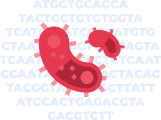
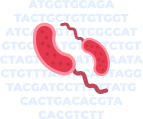
Change pabr image

diff --git a/src/modules/shared/components/icons/PaBrIcon.vue b/src/modules/shared/components/icons/PaBrIcon.vue
@@ -1,41 +1,33 @@
 <template>
-  <svg width="24" height="20" viewBox="0 0 24 20" fill="none" xmlns="http://www.w3.org/2000/svg">
-    <path d="M17.0058 14.0427C16.9678 14.9384 16.5667 15.7323 15.9593 16.2903C15.3519 16.8483 14.527 17.1809 13.6312 17.143C10.3506 17.0041 7.4392 15.5511 5.38252 13.3127C3.32599 11.0741 2.12437 8.05026 2.26329 4.76967C2.30123 3.87389 2.70238 3.08007 3.30977 2.52203C3.91716 1.964 4.74206 1.63139 5.63784 1.66932C7.42925 1.74519 8.81405 3.25245 8.73818 5.04387C8.67512 6.53304 9.22235 7.90757 10.152 8.93075C11.0929 9.94357 12.4163 10.605 13.9054 10.6681C14.8012 10.706 15.595 11.1072 16.1531 11.7146C16.7111 12.322 17.0437 13.1469 17.0058 14.0427Z" fill="#E63950"/>
-    <path d="M16.1549 11.7147C16.7129 12.3221 17.0455 13.147 17.0076 14.0427C16.9697 14.9385 16.5685 15.7323 15.9611 16.2904C15.3537 16.8484 14.5288 17.181 13.6331 17.1431C10.3525 17.0042 7.44103 15.5512 5.38435 13.3128L10.1538 8.93083C11.0948 9.94365 12.4181 10.6051 13.9073 10.6682C14.803 10.7061 15.5969 11.1073 16.1549 11.7147Z" fill="#AE2538"/>
-    <path d="M6.1301 13.959L6.84366 14.7543L5.39703 16.1082L4.68347 15.3129L6.1301 13.959Z" fill="#FE909E"/>
-    <path d="M9.19105 18.463L8.22719 18.0211L9.13412 16.0339L10.098 16.4757L9.19105 18.463Z" fill="#FE909E"/>
-    <path d="M13.1055 17.1204L14.1669 17.1563L14.0807 18.7848L13.0192 18.7488L13.1055 17.1204Z" fill="#FE909E"/>
-    <path d="M16.8755 15.3365L18.3268 16.9541L17.5315 17.6983L16.0802 16.0809L16.8755 15.3365Z" fill="#FE909E"/>
-    <path d="M17.0352 13.5032L18.6416 13.5575L18.5835 14.6509L16.9771 14.5966L17.0352 13.5032Z" fill="#FE909E"/>
-    <path d="M17.9449 10.3742L18.4894 11.3012L16.6422 12.4535L16.0977 11.5265L17.9449 10.3742Z" fill="#FE909E"/>
-    <path d="M0.597656 4.15869L2.21638 4.22724L2.17068 5.30639L0.551957 5.23784L0.597656 4.15869Z" fill="#FE909E"/>
-    <path d="M0.738235 9.00143L0.440117 7.96375L2.49637 7.37346L2.79448 8.41129L0.738235 9.00143Z" fill="#FE909E"/>
-    <path d="M3.54462 10.7198L4.10519 11.6431L2.22375 12.7854L1.66319 11.862L3.54462 10.7198Z" fill="#FE909E"/>
-    <path d="M2.84698 0.0877308L4.3331 1.70514L3.5378 2.43583L2.05167 0.818412L2.84698 0.0877308Z" fill="#FE909E"/>
-    <path d="M8.48752 0.408989L9.36006 1.0456L8.08339 2.79546L7.21085 2.15884L8.48752 0.408989Z" fill="#FE909E"/>
-    <path d="M9.01672 6.17436L8.79968 5.11675L10.9547 4.6738L11.1717 5.73142L9.01672 6.17436Z" fill="#FE909E"/>
-    <path d="M11.3902 9.9923L10.5544 9.30868L11.9851 7.56028L12.8208 8.24375L11.3902 9.9923Z" fill="#FE909E"/>
-    <path d="M15.0625 10.8856L14.0134 10.629L14.5516 8.42726L15.6007 8.68396L15.0625 10.8856Z" fill="#FE909E"/>
-    <path d="M5.4328 6.52548C4.54025 6.48768 3.84483 5.73075 3.88262 4.83821C3.92042 3.94566 4.67735 3.25023 5.56989 3.28803C6.46244 3.32583 7.15787 4.08276 7.12007 4.9753C7.08227 5.86785 6.32534 6.56327 5.4328 6.52548Z" fill="#EC5569"/>
-    <path d="M13.7023 15.5247C12.8098 15.4869 12.1144 14.73 12.1522 13.8375C12.19 12.9449 12.9469 12.2495 13.8394 12.2873C14.732 12.3251 15.4274 13.082 15.3896 13.9746C15.3518 14.8671 14.5949 15.5625 13.7023 15.5247Z" fill="#EC5569"/>
-    <path d="M5.39776 7.38168L6.12844 8.17698L5.33314 8.90766L4.60245 8.11236L5.39776 7.38168Z" fill="#EC5569"/>
-    <path d="M8.1543 11.5059L7.35563 12.2397L6.62185 11.441L7.42052 10.7073L8.1543 11.5059Z" fill="#EC5569"/>
-    <path d="M10.5657 13.0052L11.2964 13.8005L10.5011 14.5312L9.77042 13.7359L10.5657 13.0052Z" fill="#EC5569"/>
-    <path d="M10.1165 10.8241L10.8472 11.6194L10.0519 12.35L9.3212 11.5547L10.1165 10.8241Z" fill="#EC5569"/>
-    <path d="M7.53448 8.01205L8.26516 8.80735L7.46985 9.53803L6.73917 8.74273L7.53448 8.01205Z" fill="#EC5569"/>
-    <path d="M13.9294 10.1287C12.5913 10.072 11.4054 9.48127 10.5581 8.55885C9.71058 7.63655 9.22219 6.405 9.27886 5.06689C9.36705 2.98419 7.74448 1.21812 5.66178 1.12992C3.57908 1.04172 1.81302 2.66429 1.72482 4.74699C1.57995 8.16781 2.84087 11.324 4.99007 13.6744C7.1504 16.0146 10.1887 17.5379 13.6095 17.6827C15.6922 17.7709 17.4583 16.1484 17.5464 14.0657C17.6346 11.983 16.0121 10.2169 13.9294 10.1287ZM13.6552 16.6036C10.5257 16.4711 7.75215 15.078 5.78874 12.9406C3.82504 10.8036 2.67144 7.92222 2.80397 4.79269C2.86703 3.30352 4.12692 2.146 5.61609 2.20907C7.10525 2.27213 8.26277 3.53202 8.19971 5.02119C8.13024 6.66155 8.73677 8.16823 9.7594 9.29262C10.7933 10.4066 12.2433 11.1384 13.8837 11.2078C15.3728 11.2709 16.5304 12.5308 16.4673 14.02C16.4042 15.5091 15.1443 16.6667 13.6552 16.6036Z" fill="#E63950"/>
-    <path d="M17.547 14.0656C17.4588 16.1483 15.6927 17.7708 13.61 17.6826C10.1892 17.5378 7.15092 16.0145 4.99059 13.6743L5.78926 12.9405C7.75266 15.0779 10.5262 16.4709 13.6557 16.6035C15.1449 16.6665 16.4048 15.509 16.4678 14.0199C16.5309 12.5307 15.3734 11.2708 13.8842 11.2077C12.2438 11.1383 10.7938 10.4065 9.75991 9.29251L10.5586 8.55873C11.4059 9.48116 12.5918 10.0719 13.9299 10.1286C16.0126 10.2168 17.6352 11.9829 17.547 14.0656Z" fill="#E63950"/>
-    <path d="M6.99294 11.8461L7.79161 11.1123L8.15332 11.506L7.35465 12.2398L6.99294 11.8461Z" fill="#EC5569"/>
-    <path d="M16.9425 7.6811L16.4344 7.11277L17.577 6.08064L18.0851 6.64897L16.9425 7.6811Z" fill="#EC5569"/>
-    <path d="M20.0291 3.39595L19.2919 3.20159L19.6768 1.71075L20.414 1.90511L20.0291 3.39595Z" fill="#EC5569"/>
-    <path d="M21.6189 6.47263L21.7074 5.7154L23.2377 5.88645L23.1491 6.64368L21.6189 6.47263Z" fill="#EC5569"/>
-    <path d="M19.9693 8.31815L20.6642 8.00459L21.3046 9.40485L20.6097 9.71841L19.9693 8.31815Z" fill="#EC5569"/>
-    <path d="M13.3794 5.46892L13.2177 4.72388L14.7208 4.3897L14.8824 5.13475L13.3794 5.46892Z" fill="#EC5569"/>
-    <path d="M16.4854 2.63433L15.7956 2.95896L15.1329 1.56913L15.8227 1.2445L16.4854 2.63433Z" fill="#EC5569"/>
-    <path d="M21.624 6.4933C21.7905 7.37429 21.2138 8.21966 20.3329 8.38614C19.4519 8.55262 18.6065 7.97597 18.44 7.09498C18.3558 6.6493 18.1012 6.29063 17.7605 6.05818C17.4197 5.82572 16.9929 5.7196 16.5472 5.80382C15.6662 5.97029 14.8208 5.39364 14.6544 4.51265C14.4879 3.63166 15.0645 2.7863 15.9455 2.61982C17.2615 2.37113 18.5612 2.67515 19.5852 3.38307C20.618 4.07817 21.3753 5.17728 21.624 6.4933Z" fill="#E63950"/>
-    <path d="M21.6227 6.49342C21.7892 7.37441 21.2125 8.21978 20.3315 8.38625C19.4506 8.55273 18.6052 7.97608 18.4387 7.09509C18.3545 6.64941 18.0999 6.29075 17.7592 6.05829L19.5839 3.38318C20.6167 4.07828 21.374 5.17739 21.6227 6.49342Z" fill="#AE2538"/>
-    <path d="M19.9059 2.93721C18.7576 2.15403 17.308 1.81236 15.8434 2.08912C14.6759 2.30973 13.9012 3.44543 14.1218 4.6129C14.3424 5.78036 15.4781 6.55506 16.6456 6.33445C16.9429 6.27828 17.2196 6.34692 17.4573 6.49981C17.6864 6.66534 17.8513 6.89797 17.9075 7.19522C18.1281 8.36269 19.2638 9.13738 20.4313 8.91677C21.5987 8.69616 22.3734 7.56046 22.1528 6.39299C21.8761 4.92841 21.033 3.72456 19.9059 2.93721ZM20.2307 7.85544C19.647 7.96575 19.0791 7.5784 18.9688 6.99466C18.8585 6.41093 18.5248 5.92437 18.0599 5.61648C17.6035 5.29594 17.0288 5.16281 16.445 5.27312C15.8613 5.38342 15.2935 4.99607 15.1832 4.41234C15.0728 3.82861 15.4602 3.26076 16.0439 3.15045C17.2114 2.92984 18.363 3.20688 19.2822 3.82453C20.1927 4.455 20.8709 5.42608 21.0915 6.59355C21.2018 7.17728 20.8144 7.74513 20.2307 7.85544Z" fill="#E63950"/>
-    <path d="M22.1537 6.39279C22.3743 7.56026 21.5996 8.69596 20.4321 8.91657C19.2646 9.13718 18.1289 8.36249 17.9083 7.19502C17.8521 6.89777 17.6872 6.66514 17.4582 6.4996L18.0607 5.61628C18.5257 5.92417 18.8593 6.41073 18.9697 6.99446C19.08 7.5782 19.6478 7.96555 20.2315 7.85524C20.8153 7.74493 21.2026 7.17708 21.0923 6.59335C20.8717 5.42588 20.1935 4.4548 19.283 3.82433L19.8856 2.94101L19.9067 2.93701C21.0338 3.72436 21.8769 4.92821 22.1537 6.39279Z" fill="#E63950"/>
+  <svg width="32" height="32" viewBox="0 0 32 32" fill="none" xmlns="http://www.w3.org/2000/svg">
+    <path d="M13.773 18.1824C13.6902 17.8866 13.8547 17.5931 14.1469 17.5154L15.1903 17.2378C16.0563 17.0074 16.9535 17.5292 17.1988 18.406C17.2816 18.7018 17.586 18.9083 17.8782 18.8306C18.2851 18.7223 18.6946 18.7836 19.0369 18.965C19.4401 19.1642 19.7566 19.5339 19.8867 19.9987L20.1823 21.0551C20.2651 21.3509 20.1006 21.6443 19.8084 21.722C19.5162 21.7998 19.2216 21.6285 19.1389 21.3327L18.8433 20.2763C18.7605 19.9806 18.4659 19.8092 18.1738 19.8869C17.3077 20.1173 16.4007 19.5604 16.1554 18.6836C16.0726 18.3878 15.7781 18.2164 15.4859 18.2942L14.4425 18.5718C14.1503 18.6495 13.8557 18.4782 13.773 18.1824Z" fill="#BD4859"/>
+    <path d="M25.494 23.7047C25.5805 23.9994 25.4198 24.295 25.1287 24.3766L24.089 24.6679C23.2261 24.9097 22.3224 24.3996 22.0659 23.5261C21.9794 23.2314 21.6724 23.0289 21.3812 23.1104C20.9758 23.224 20.5655 23.1681 20.221 22.9912C19.8153 22.7973 19.4941 22.4318 19.3581 21.9686L19.0491 20.9161C18.9625 20.6214 19.1232 20.3258 19.4144 20.2442C19.7055 20.1627 20.0022 20.3301 20.0887 20.6248L20.3978 21.6773C20.4843 21.972 20.781 22.1395 21.0722 22.0579C21.9351 21.8162 22.849 22.3612 23.1056 23.2348C23.1921 23.5295 23.4888 23.697 23.7799 23.6154L24.8196 23.3241C25.1107 23.2426 25.4074 23.41 25.494 23.7047Z" fill="#BD4859"/>
+    <path d="M16.8425 17.5524C16.7162 18.2142 16.3207 18.7502 15.7918 19.0823C15.2628 19.4145 14.5905 19.5488 13.9037 19.3975C11.3885 18.8434 9.30043 17.3615 7.95677 15.4121C6.61324 13.4627 6.0142 11.0458 6.47694 8.62197C6.60329 7.96012 6.99874 7.42409 7.5277 7.09198C8.05666 6.75986 8.72894 6.62549 9.41573 6.77679C10.7892 7.07936 11.6939 8.39199 11.4412 9.71558C11.2312 10.8159 11.5042 11.9146 12.1104 12.8042C12.7263 13.6877 13.6753 14.362 14.817 14.6136C15.5038 14.7649 16.0726 15.1726 16.4372 15.7016C16.8017 16.2305 16.9689 16.8905 16.8425 17.5524Z" fill="#E63950"/>
+    <path d="M8.68264 11.0439L9.16 11.7365L8.46739 12.1714L7.99003 11.4788L8.68264 11.0439Z" fill="#CC2E43"/>
+    <path d="M9.66311 9.54342L10.1405 10.236L9.44786 10.6709L8.9705 9.97829L9.66311 9.54342Z" fill="#CC2E43"/>
+    <path d="M8.61233 8.02828L9.08969 8.72089L8.39708 9.15576L7.91972 8.46315L8.61233 8.02828Z" fill="#CC2E43"/>
+    <path d="M10.2895 14.509L9.59396 14.9457L9.11458 14.2502L9.81012 13.8135L10.2895 14.509Z" fill="#CC2E43"/>
+    <path d="M11.8793 16.8477L11.1838 17.2844L10.7044 16.5888L11.4 16.1521L11.8793 16.8477Z" fill="#CC2E43"/>
+    <path d="M10.2256 11.7837L10.703 12.4763L10.0104 12.9111L9.533 12.2185L10.2256 11.7837Z" fill="#CC2E43"/>
+    <path d="M11.8174 14.122L12.2948 14.8146L11.6022 15.2495L11.1248 14.5569L11.8174 14.122Z" fill="#CC2E43"/>
+    <path d="M13.3057 16.2441L13.783 16.9367L13.0904 17.3716L12.6131 16.679L13.3057 16.2441Z" fill="#CC2E43"/>
+    <path d="M15.2178 16.4565L15.6952 17.1491L15.0026 17.584L14.5252 16.8914L15.2178 16.4565Z" fill="#CC2E43"/>
+    <path d="M14.8928 14.2152C13.8669 13.9892 13.0163 13.3864 12.4627 12.5831C11.909 11.7799 11.6659 10.7957 11.8546 9.80701C12.1484 8.26821 11.0883 6.73019 9.49153 6.37842C7.89473 6.02665 6.35671 6.99233 6.06294 8.53113C5.58042 11.0586 6.21085 13.5821 7.61373 15.6276C9.02631 17.6671 11.2046 19.2187 13.8273 19.7965C15.4241 20.1483 16.9621 19.1826 17.2559 17.6438C17.5497 16.105 16.4896 14.567 14.8928 14.2152ZM13.9795 18.9992C11.5801 18.4706 9.59195 17.0522 8.30927 15.1909C7.02634 13.3298 6.44889 11.0256 6.89032 8.7134C7.10037 7.61312 8.19757 6.92423 9.33931 7.17575C10.4811 7.42727 11.2373 8.52447 11.0272 9.62474C10.7958 10.8367 11.1003 12.042 11.7672 13.0198C12.4439 13.9914 13.4829 14.7355 14.7406 15.0125C15.8823 15.264 16.6386 16.3612 16.4285 17.4615C16.2185 18.5618 15.1213 19.2507 13.9795 18.9992Z" fill="#FE909E"/>
+    <path d="M17.164 17.66C16.8715 19.1898 15.3403 20.1498 13.7505 19.8001C11.1393 19.2257 8.97065 17.6832 7.56429 15.6557L8.25677 15.2216C9.5338 17.072 11.5132 18.482 13.902 19.0074C15.0388 19.2575 16.1311 18.5726 16.3403 17.4788C16.5494 16.385 15.7965 15.2943 14.6598 15.0443C13.4077 14.7688 12.3732 14.0291 11.6995 13.0632L12.3919 12.6291C12.9431 13.4277 13.7899 14.0269 14.8113 14.2516C16.4011 14.6013 17.4565 16.1303 17.164 17.66Z" fill="#FE909E"/>
+    <path d="M21.0204 11.4011C21.0603 11.6134 20.9268 11.8088 20.7168 11.8452L19.967 11.9752C19.3446 12.0831 18.7467 11.6621 18.6284 11.0327C18.5885 10.8203 18.3874 10.6568 18.1774 10.6932C17.885 10.7439 17.6012 10.6757 17.372 10.5275C17.1011 10.363 16.9016 10.0844 16.8389 9.75074L16.6963 8.99243C16.6564 8.78008 16.7899 8.58469 16.9999 8.54829C17.2099 8.5119 17.4062 8.65011 17.4461 8.86246L17.5887 9.62077C17.6286 9.83307 17.8249 9.97133 18.0349 9.93493C18.6572 9.82705 19.2599 10.2733 19.3782 10.9027C19.4181 11.115 19.6144 11.2533 19.8244 11.2169L20.5742 11.0869C20.7842 11.0505 20.9805 11.1887 21.0204 11.4011Z" fill="#BD4859"/>
+    <path d="M13.136 6.80616C13.0934 6.59438 13.2245 6.39719 13.4339 6.35803L14.182 6.2182C14.8029 6.10214 15.406 6.51529 15.5324 7.14309C15.575 7.35492 15.7781 7.51576 15.9876 7.4766C16.2794 7.42207 16.564 7.48662 16.795 7.63178C17.068 7.79269 17.271 8.06864 17.338 8.4015L17.4903 9.15792C17.5329 9.36974 17.4019 9.56689 17.1924 9.60605C16.9829 9.6452 16.7849 9.50957 16.7422 9.29775L16.59 8.54133C16.5474 8.32955 16.3493 8.19387 16.1399 8.23303C15.519 8.34909 14.9107 7.91078 14.7844 7.28292C14.7417 7.07115 14.5437 6.93547 14.3342 6.97463L13.5862 7.11446C13.3767 7.15361 13.1787 7.01798 13.136 6.80616Z" fill="#BD4859"/>
+    <path d="M18.8114 11.6617C18.9409 11.2067 19.252 10.8564 19.6446 10.657C20.0372 10.4577 20.5185 10.4055 20.9926 10.554C22.7288 11.0979 24.1076 12.2641 24.9338 13.7109C25.76 15.1578 26.0336 16.8853 25.5596 18.5516C25.4302 19.0066 25.119 19.3569 24.7265 19.5563C24.3339 19.7556 23.8525 19.8078 23.3784 19.6593C22.4304 19.3623 21.874 18.3881 22.1329 17.4781C22.3481 16.7217 22.2232 15.9364 21.8511 15.2765C21.4717 14.6204 20.8451 14.0898 20.057 13.8429C19.5829 13.6943 19.2076 13.3738 18.9834 12.9812C18.7592 12.5886 18.682 12.1167 18.8114 11.6617Z" fill="#E63950"/>
+    <path d="M24.147 16.7226L23.8534 16.2086L24.3675 15.9475L24.661 16.4616L24.147 16.7226Z" fill="#CC2E43"/>
+    <path d="M23.3657 17.7148L23.0722 17.2008L23.5862 16.9397L23.8798 17.4538L23.3657 17.7148Z" fill="#CC2E43"/>
+    <path d="M24.0103 18.8423L23.7167 18.3282L24.2308 18.0671L24.5243 18.5812L24.0103 18.8423Z" fill="#CC2E43"/>
+    <path d="M23.2333 14.1941L23.7495 13.932L24.0443 14.4482L23.5281 14.7104L23.2333 14.1941Z" fill="#CC2E43"/>
+    <path d="M22.2626 12.4554L22.7788 12.1932L23.0736 12.7094L22.5574 12.9716L22.2626 12.4554Z" fill="#CC2E43"/>
+    <path d="M23.1118 16.1086L22.8183 15.5946L23.3323 15.3335L23.6259 15.8476L23.1118 16.1086Z" fill="#CC2E43"/>
+    <path d="M22.1392 14.3698L21.8456 13.8558L22.3597 13.5947L22.6532 14.1088L22.1392 14.3698Z" fill="#CC2E43"/>
+    <path d="M21.2251 12.7893L20.9316 12.2752L21.4456 12.0142L21.7392 12.5282L21.2251 12.7893Z" fill="#CC2E43"/>
+    <path d="M19.8989 12.5224L19.6054 12.0084L20.1194 11.7473L20.413 12.2614L19.8989 12.5224Z" fill="#CC2E43"/>
+    <path d="M19.9785 14.1169C20.6866 14.3388 21.2483 14.8132 21.5887 15.4094C21.9292 16.0056 22.0401 16.709 21.8468 17.3887C21.5458 18.4466 22.1977 19.5881 23.2999 19.9334C24.4021 20.2787 25.5437 19.699 25.8446 18.6411C26.3389 16.9035 26.0497 15.0995 25.1877 13.5818C24.3184 12.0677 22.8804 10.8471 21.07 10.2799C19.9678 9.93464 18.8263 10.5144 18.5253 11.5722C18.2244 12.6301 18.8762 13.7716 19.9785 14.1169ZM20.9141 10.8281C22.5703 11.3469 23.8827 12.4625 24.6714 13.8439C25.4604 15.2253 25.7257 16.8725 25.2735 18.4622C25.0583 19.2186 24.244 19.6321 23.4558 19.3852C22.6677 19.1383 22.2027 18.324 22.4179 17.5676C22.6549 16.7344 22.5144 15.8725 22.105 15.1473C21.6882 14.4257 21.0025 13.8407 20.1344 13.5688C19.3463 13.3219 18.8813 12.5076 19.0964 11.7512C19.3116 10.9947 20.126 10.5812 20.9141 10.8281Z" fill="#FE909E"/>
+    <path d="M18.598 11.561C18.8976 10.5093 20.0337 9.93298 21.1308 10.2762C22.9328 10.8401 24.364 12.0535 25.2292 13.5587L24.7154 13.8193C23.9303 12.446 22.6241 11.337 20.9756 10.8212C20.1912 10.5757 19.3806 10.9869 19.1665 11.7388C18.9523 12.4908 19.4151 13.3004 20.1996 13.5458C21.0636 13.8162 21.7461 14.3977 22.1609 15.1151L21.6471 15.3757C21.3083 14.783 20.7492 14.3113 20.0444 14.0907C18.9473 13.7475 18.2985 12.6127 18.598 11.561Z" fill="#FE909E"/>
   </svg>
 </template>
 

diff --git a/src/modules/bacteria/components/map/BacteriaMenu.vue b/src/modules/bacteria/components/map/BacteriaMenu.vue
@@ -20,7 +20,11 @@
         </span>
       </template>
       <template #item="{ item }">
-        <component class="mr-2" :is="`${item.name}Icon`" />
+        <component
+          class="mr-2"
+          style="min-width: 32px;"
+          :is="`${item.name}Icon`"
+        />
         <span class="subtitle-2 font-italic">
           {{ item.scientificName }}
         </span>
@@ -86,10 +90,14 @@ export default class BacteriaMenu extends Vue {
     box-shadow: 0px 0px 2px rgba(0, 0, 0, 0.3);
   }
 
+  ::v-deep svg {
+    min-width: 32px;
+  }
+
   @media #{map-get($display-breakpoints, 'md-and-up')} {
     left: 50px;
     right: auto;
-    width: 300px;
+    width: 310px;
 
     .v-input {
       box-shadow: none;
